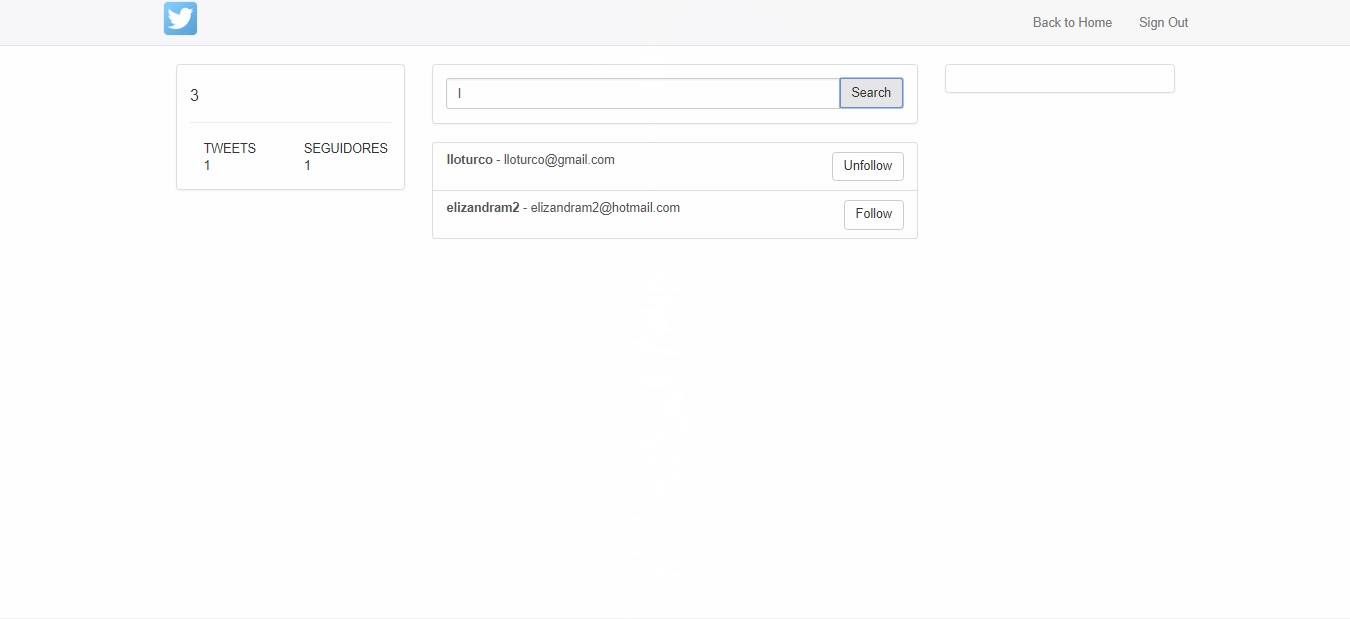
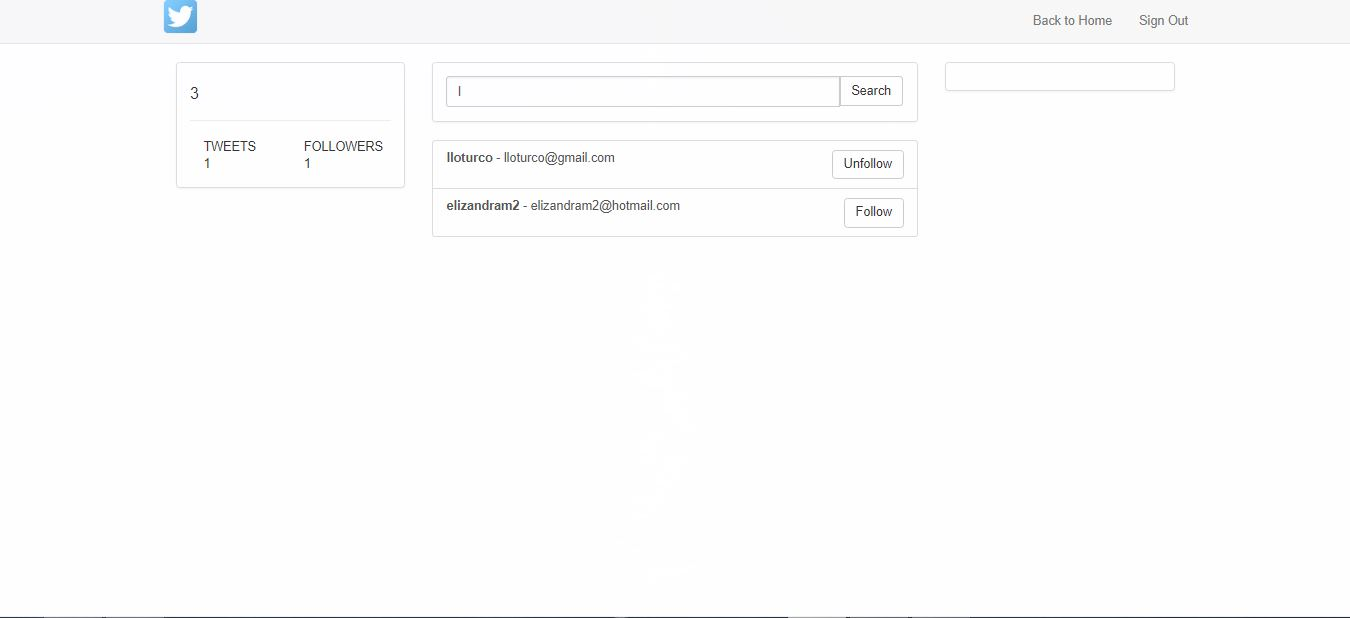
Fix of bugs

diff --git a/home.php b/home.php
@@ -130,7 +130,7 @@
 						TWEETS <br /> <?= $tweetsAmount ?>
 					</div>
 					<div class="col-md-6">
-						SEGUIDORES <br /> <?= $followersAmount ?>
+						FOLLOWERS <br /> <?= $followersAmount ?>
 					</div>
 				</div>
 			</div>

diff --git a/searchPeople.php b/searchPeople.php
@@ -129,7 +129,7 @@
 						TWEETS <br /> 1
 					</div>
 					<div class="col-md-6">
-						SEGUIDORES <br /> 1
+						FOLLOWERS <br /> 1
 					</div>
 				</div>
 			</div>
